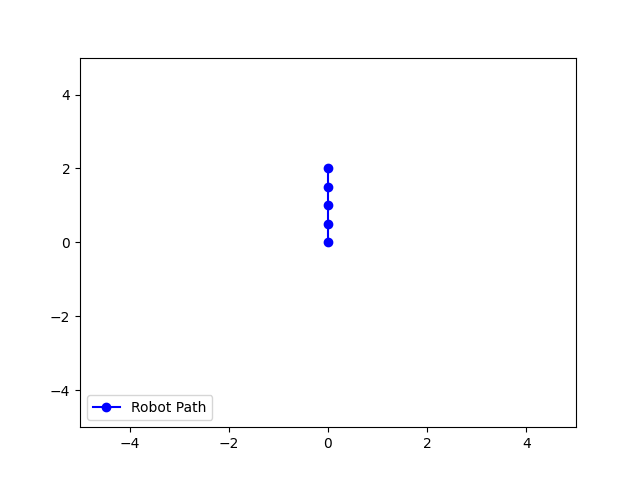
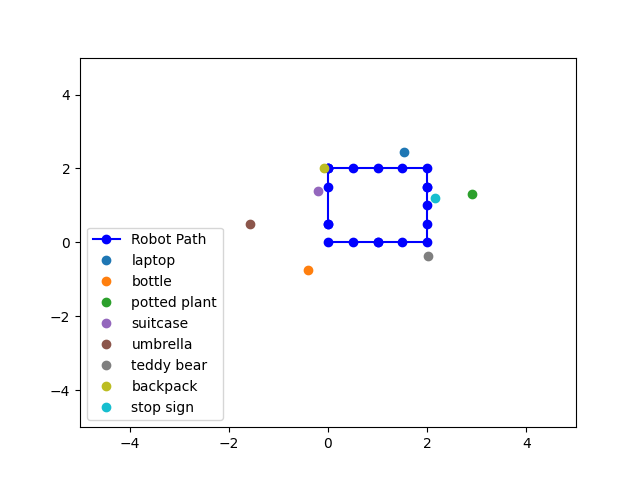
Working!!!

diff --git a/rb5_control/src/hw3_slam.py b/rb5_control/src/hw3_slam.py
@@ -60,7 +60,7 @@ class SlamControlNode(Node):
         # self.EKF_predict_pub = self.create_publisher(Float32MultiArray, '/ekf_predict', 10)
 
         
-        self.objects_to_detect = ['tv', 'bottle', 'potted plant', 'suitcase', 'umbrella', 'teddy bear', 'backpack', 'stop sign']
+        self.objects_to_detect = ['laptop', 'bottle', 'potted plant', 'suitcase', 'umbrella', 'teddy bear', 'backpack', 'stop sign']
         # self.ekf_slam = EKFSLAM(self.objects_to_detect)
         self.fig, self.ax = plt.subplots()
         self.set_plot_limits()
@@ -130,7 +130,7 @@ class SlamControlNode(Node):
 
         object_name = self.objects_to_detect[int(obj_index)]
         print(f"\nRobot Position: (x={robot_x:.2f}, y={robot_y:.2f}, theta={theta:.2f})")
-        print(f"Detected {object_name} at world position (x={obj_x:.2f}, y={obj_y:.2f})")
+        print(f"Detected {object_name} (index {obj_index}) at world position (x={obj_x:.2f}, y={obj_y:.2f})")
 
         self.robot_positions.append([robot_x, robot_y])
         self.detected_objects.append((obj_x, obj_y, object_name))
@@ -156,7 +156,10 @@ class SlamControlNode(Node):
     def update_and_plot(self, msg):
         print("\nupdate and plot")
         print(self.robot_positions[1:])
+        print("\n")
         print(self.detected_objects[-8:])
+        print("\n")
+        print(self.objects_to_detect)
         self.ax.clear()
         self.set_plot_limits()
         self.ax.plot(*zip(*self.robot_positions[1:]), 'bo-', label="Robot Path")
@@ -245,7 +248,7 @@ class SlamControlNode(Node):
         self.movement_pub.publish(state_msg)
 
         turn_twist = Twist()
-        turn_twist.angular.z = 8.0
+        turn_twist.angular.z = 8.5
         self.twist_pub.publish(turn_twist)
         time.sleep(np.pi / 2)
         turn_twist.angular.z = 0.0

diff --git a/rb5_ros2_vision/launch/yolo_detection_node.py b/rb5_ros2_vision/launch/yolo_detection_node.py
@@ -19,12 +19,12 @@ class YoloDetectionNode(Node):
 
         # Objects to detect and their known widths (in meters)
         self.objects_to_detect = {
-            'tv': 1.6,
-            'bottle': 0.1,
+            'laptop': 0.35,
+            'bottle': 0.05,
             'potted plant': 0.15,
-            'suitcase': 0.5,
-            'umbrella': 0.6,
-            'teddy bear': 0.15,
+            'suitcase': 0.3,
+            'umbrella': 0.8,
+            'teddy bear': 0.2,
             'backpack': 0.3,
             'stop sign': 0.2
         }
@@ -72,11 +72,12 @@ class YoloDetectionNode(Node):
         # Print detected object details
         print(f"Detected {object_name} - Distance: {distance:.2f} m, Angle: {angle_offset:.2f} radians\n")
 
-        print(f"\n\n\n\n checking format: {float(list(self.objects_to_detect.keys()).index(object_name))} \n\n\n\n")
+        # print(f"\n\n\n\n checking format: {float(list(self.objects_to_detect.keys()).index(object_name))} \n\n\n\n")
 
         # Publish object info (distance and angle relative to the robot's pose)
         msg = Float32MultiArray()
-        msg.data = [distance, angle_offset, float(list(self.objects_to_detect.keys()).index(object_name))]
+        obj_index = float(list(self.objects_to_detect.keys()).index(object_name))
+        msg.data = [distance, angle_offset, obj_index]
         self.publisher_.publish(msg)
 
 def main(args=None):

diff --git a/rb5_control/src/hw3_move.py b/rb5_control/src/hw3_move.py
@@ -29,21 +29,21 @@ class MovementCommands(Node):
             ['move', 0.5],
             ['move', 0.5],
             ['spin', 90],
-            # ['move', 0.5],
-            # ['move', 0.5],
-            # ['move', 0.5],
-            # ['move', 0.5],
-            # ['spin', 90],
-            # ['move', 0.5],
-            # ['move', 0.5],
-            # ['move', 0.5],
-            # ['move', 0.5],
-            # ['spin', 90],
-            # ['move', 0.5],
-            # ['move', 0.5],
-            # ['move', 0.5],
-            # ['move', 0.5],
-            # ['spin', 90],
+            ['move', 0.5],
+            ['move', 0.5],
+            ['move', 0.5],
+            ['move', 0.5],
+            ['spin', 90],
+            ['move', 0.5],
+            ['move', 0.5],
+            ['move', 0.5],
+            ['move', 0.5],
+            ['spin', 90],
+            ['move', 0.5],
+            ['move', 0.5],
+            ['move', 0.5],
+            ['move', 0.5],
+            ['spin', 90],
             # # move to start ocotogon
             # ['move', 0.5],
             # # octogon

diff --git a/rb5_control/src/hw3_ekf.py b/rb5_control/src/hw3_ekf.py
@@ -205,7 +205,7 @@ class EKFSLAM(Node):
 
     def update_callback(self, msg):
         obj_x, obj_y, obj_index = msg.data
-        self.update([obj_x, obj_y], int(obj_index)-1)
+        self.update([obj_x, obj_y], int(obj_index))
 
     # def publish_slam_state(self):
     #     state_msg = Float32MultiArray()
@@ -219,7 +219,7 @@ class EKFSLAM(Node):
     
 def main(args=None):
     rclpy.init(args=args)
-    node = EKFSLAM(object_list=['tv', 'bottle', 'potted plant', 'suitcase', 'umbrella', 'teddy bear', 'backpack', 'stop sign'])
+    node = EKFSLAM(object_list=['laptop', 'bottle', 'potted plant', 'suitcase', 'umbrella', 'teddy bear', 'backpack', 'stop sign'])
     print("EKF running...")
     try:
         rclpy.spin(node)
